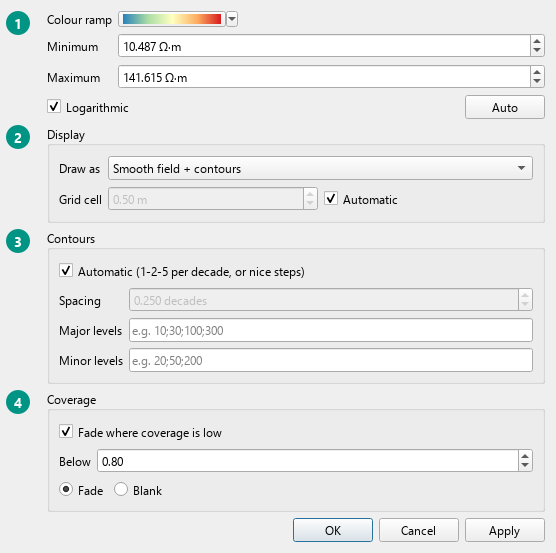
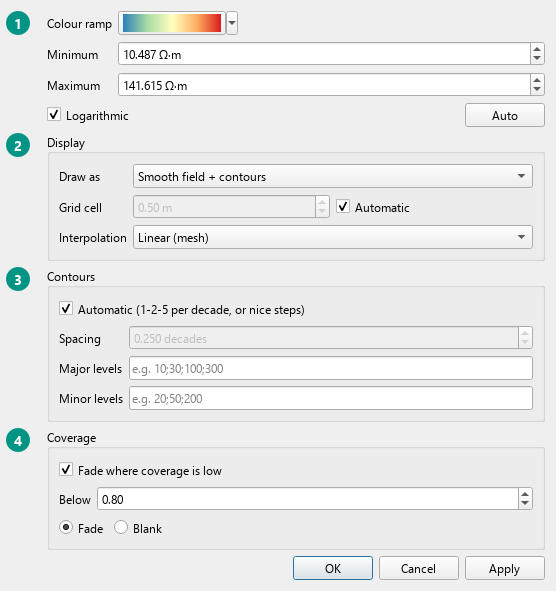
docs: interpolation methods of the smooth display
What each method does and is good for, kriging's variogram fields, anisotropy, the masks, the fallback note; the Display dialog picture shows the Interpolation row.

diff --git a/docs/user/howto/section-panel.md b/docs/user/howto/section-panel.md
@@ -99,6 +99,8 @@ profile…**. Removing takes the model off the profile; the file stays where it 
    - **Contours**, with labels on the lines;
    - **Smooth field + contours**.
 - **Grid cell** of the smooth field: automatic, or your own size in metres.
+- **Interpolation**: how the smooth field and the contours are made from the model's cells
+  (see [Interpolation](#interpolation) below).
 - ③ **Contours**: automatic steps (1-2-5 per decade on a logarithmic scale), your own
   **Spacing**, or your own **Major levels** and **Minor levels**.
 - ④ **Coverage**: **Fade where coverage is low**, **Below** a threshold you set; **Fade** or
@@ -107,6 +109,41 @@ profile…**. Removing takes the model off the profile; the file stays where it 
 - **Show**, for measured data (BERT/pyGIMLi data files, R2/ResIPy misfit): **Measured apparent
   resistivity**, **Calculated apparent resistivity (model response)** or **Misfit**, drawn as
   **Points (one per reading)**.
+
+### Interpolation
+
+The smooth field and the contours are made on a fine grid over the model. **Interpolation**
+chooses how each point of that grid gets its value from the model's cells:
+
+| Method | What it does | Good for |
+|---|---|---|
+| **Linear (mesh)** (the default) | Blends the cells' values across the inversion's own mesh. | Showing the model as inverted, with nothing added. |
+| **Nearest neighbour** | Each point takes the value of the nearest cell. | Seeing the cells' own values, without blending. |
+| **Inverse distance** | Averages the nearby cells, nearer ones counting more (**Power**, 2 is usual; **Neighbours**, how many cells). | A quick, gentle smoothing. |
+| **Spline** | A smooth surface through the cells' values (**Kernel**; **Smoothing** 0 passes exactly through them, more smooths). | Smooth fields from few or uneven cells. |
+| **Ordinary kriging** | Weights the nearby cells by how values vary with distance in this model (its variogram). | Fields that respect the model's own structure, as geostatistics does it. |
+
+For **Ordinary kriging**:
+
+- **Variogram**: spherical, exponential or Gaussian.
+- **Fit to the data** (on by default) fits **Range**, **Sill** and **Nugget** to the model; untick
+  it to type your own. **Fit Now** shows the fit and puts it into the three fields.
+- **Neighbours**: how many cells each point is computed from (16 by default).
+
+**Anisotropy** (all but linear) is how much further values stay alike along the line than in
+depth. Layered ground has values that change faster with depth, so a larger anisotropy
+interpolates along the layers. **Automatic** uses the cells' own width over height; for
+kriging it is read from the model's variogram along and across the line.
+
+Whatever the method, the field stays inside the model: nothing past its outline, above the
+ground or into cells without a value, and the coverage fade still applies. On a logarithmic
+scale the methods work on the logarithm of the values, as the linear one does. When a method
+cannot be used on a model (kriging on values that do not vary, for example), the field is drawn
+linearly and the **Log Messages** panel (Groundwork tab) says why. Kriging and spline take a few
+seconds on large models.
+
+The setting is part of the model's look: the 3D view's smooth clouds and section pictures and
+the plates use it too.
 
 ## Boreholes on the section
 
